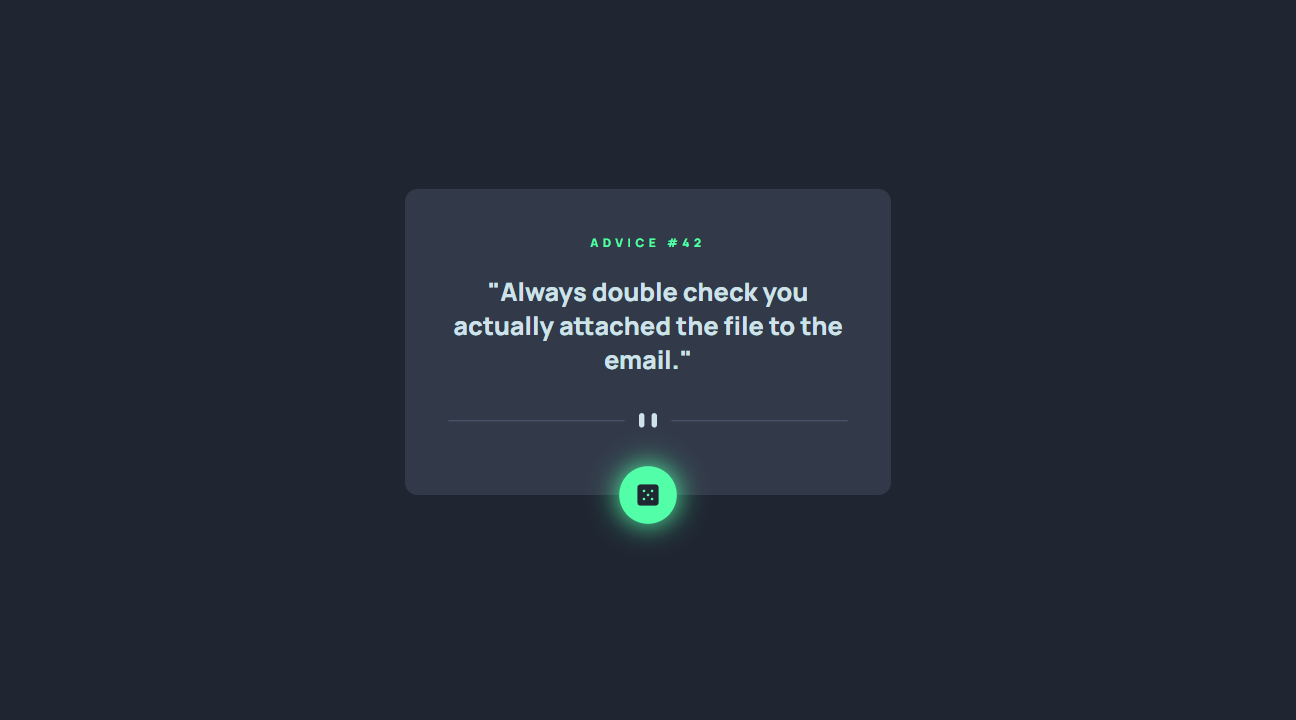
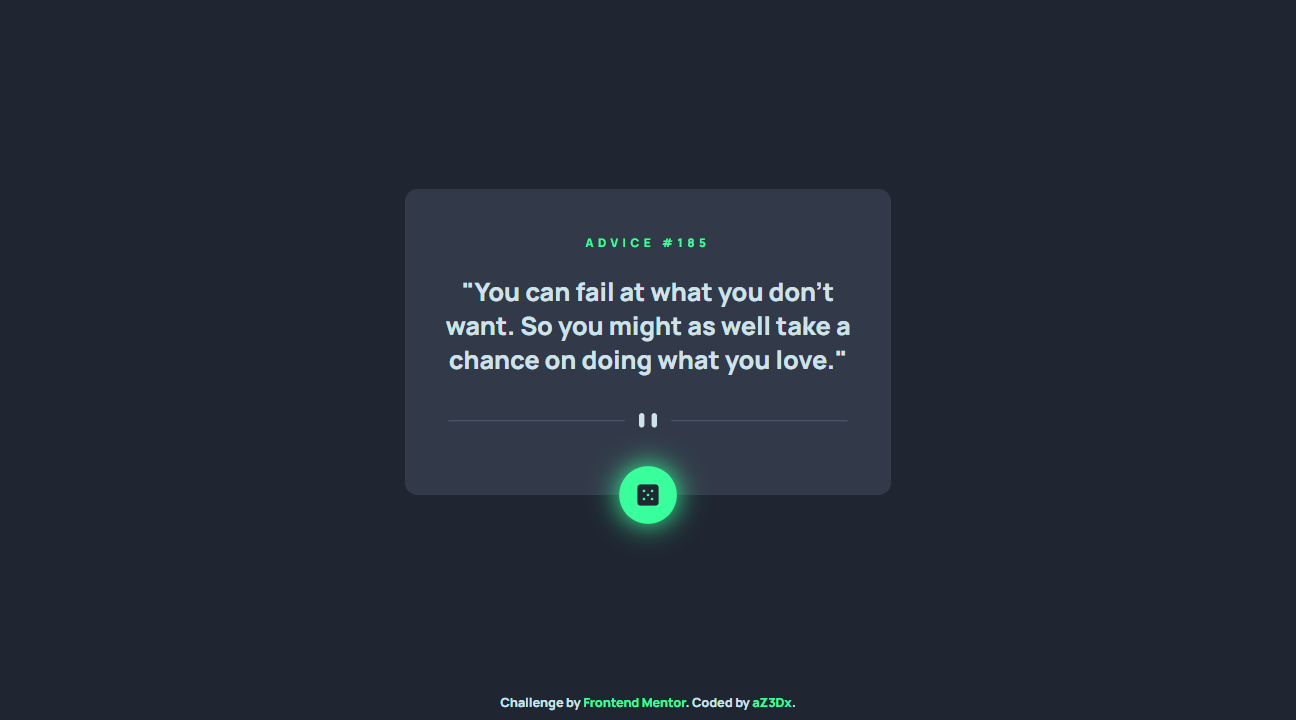
Responsive

diff --git a/css/style.css b/css/style.css
@@ -2,7 +2,8 @@
 
 :root {
     --Light-Cyan: hsl(193, 38%, 86%);
-    --Neon-Green: hsl(150, 100%, 66%);
+    --Neon-Green: hsl(150, 100%, 61%);
+    --Neon-Green-Variant: hsl(150, 86%, 41%);
 
     --Grayish-Blue: hsl(217, 19%, 38%);
     --Dark-Grayish-Blue: hsl(217, 19%, 24%);
@@ -77,6 +78,26 @@ main {
     transition: box-shadow .3s ease;
 }
 
+.attr-container {
+    position: absolute;
+    bottom: 10px;
+    width: 100%;
+}
+
+.attr-container_content {
+    font-size: 14px;
+    color: var(--Light-Cyan);
+    text-align: center;
+}
+
+.attr-container_content a {
+    text-decoration: none;
+    color: var(--Neon-Green);
+}
+.attr-container_content a:hover {
+    color: var(--Neon-Green-Variant);
+}
+
 @media (max-width: 540px) {
     .slip-container {
         padding: 44px 20px 40px 20px;
@@ -94,5 +115,15 @@ main {
 
     .slip-container_divider {
         margin-bottom: 20px;
+    }
+
+    .attr-container_content {
+        font-size: 10px;
+    }
+}
+
+@media (max-width: 375px) {
+    .slip-container_divider img {
+        width: 100%;
     }
 }

diff --git a/index.html b/index.html
@@ -30,10 +30,12 @@
     </div>
   </main>
   
-  <!-- <div class="attribution">
-    Challenge by <a href="https://www.frontendmentor.io?ref=challenge" target="_blank">Frontend Mentor</a>. 
-    Coded by <a href="#">Your Name Here</a>.
-  </div> -->
+  <footer class="attr-container">
+    <div class="attr-container_content">
+      Challenge by <a href="https://www.frontendmentor.io?ref=challenge" target="_blank">Frontend Mentor</a>. 
+      Coded by <a href="https://www.frontendmentor.io/profile/aZ3Dx" target="_blank">aZ3Dx</a>.
+    </div>
+  </footer>
   <script src="js/quote.js"></script>
 </body>
 </html>
